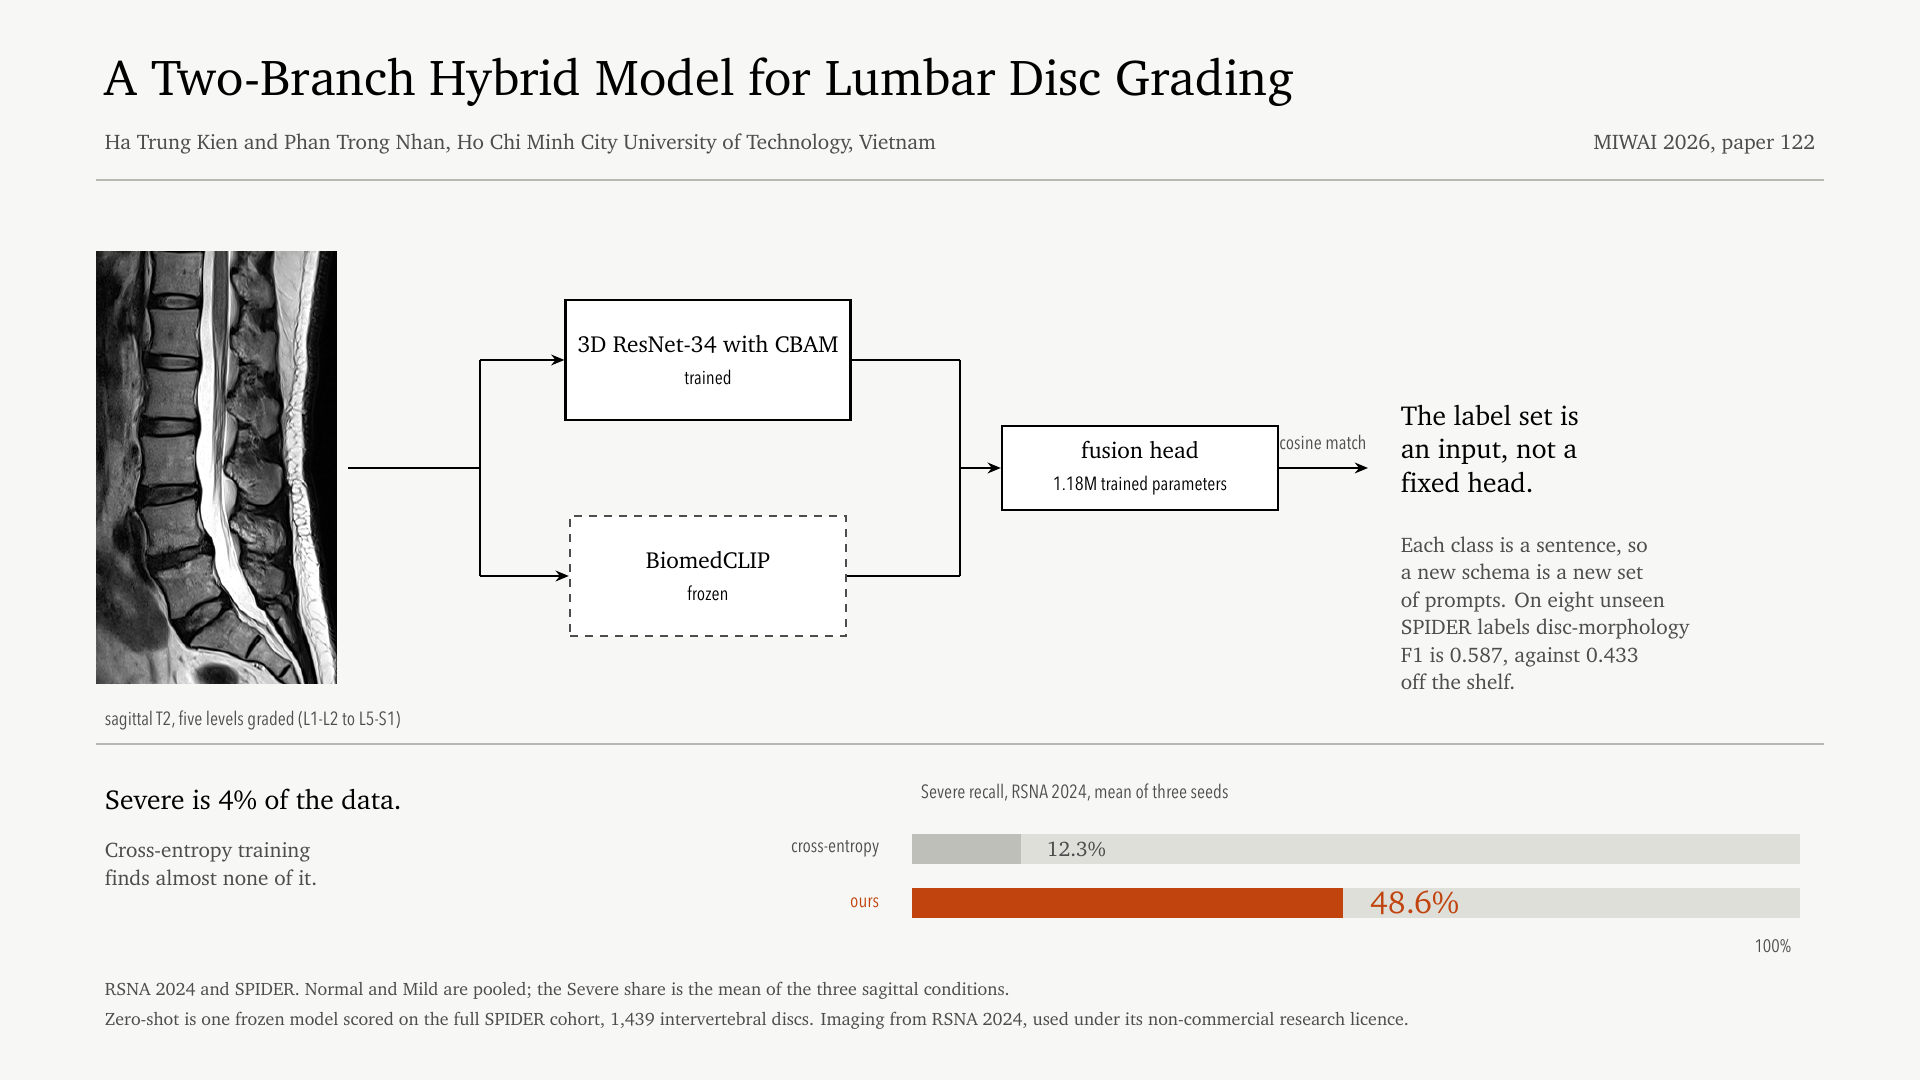
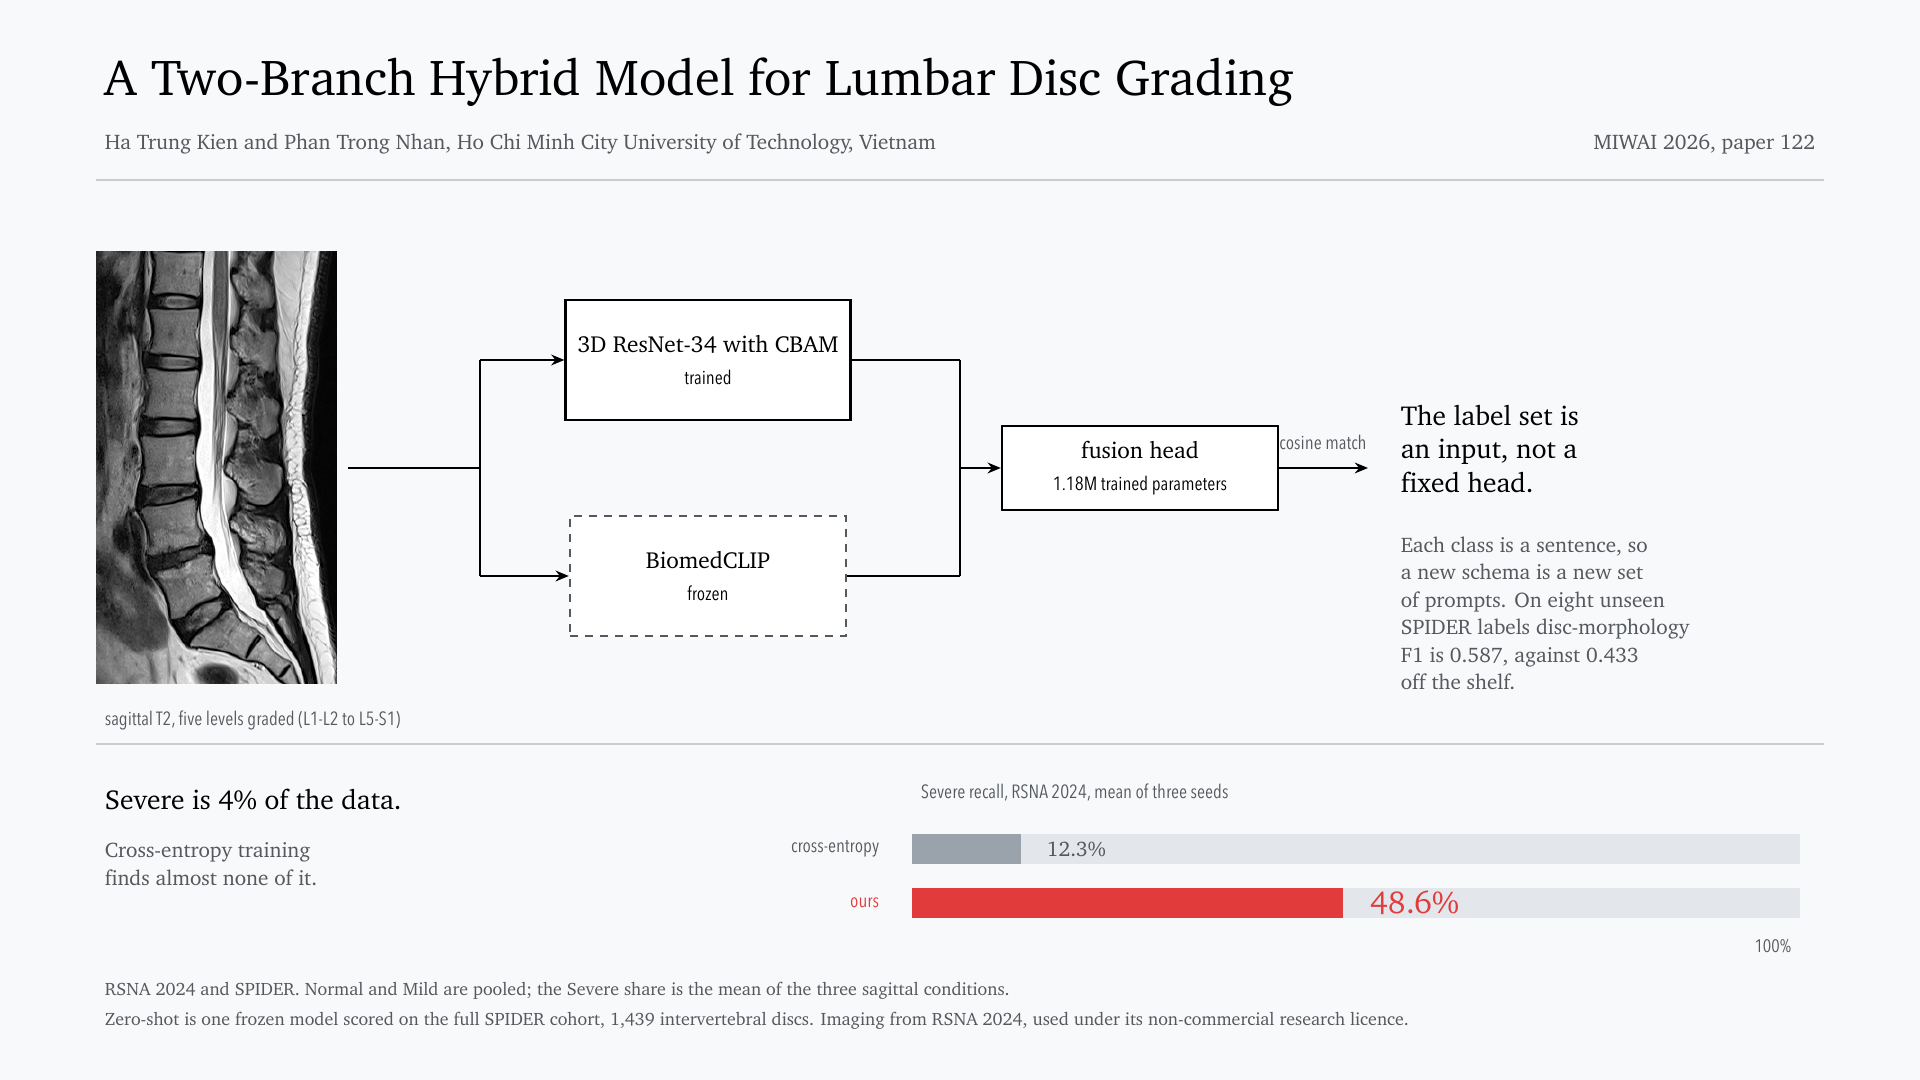
miwai(async): clean the palette, the page had gone dusty
The neutrals were warm, olive-tinted greys (F7F7F5, DFDFDA, BFBFB9, B8B8B2)
and the accent was a muted brick. Tinted neutrals do not read as restraint,
they read as dirt, and with a muted accent on top the whole page came out
washed out. The greys are now clean and faintly cool, which is what reads as
clinical, and the accent is the same Severe red the paper's own class
distribution figure uses, so the two artefacts agree.

The scan was also too dark against a pale page. The window is tightened from
the 1st to 99th percentile to the 2nd to 99.5th and the midtones lifted with a
gamma of 0.82. That is display windowing, the knob a radiologist turns; it
changes no pixel ordering and no measurement.

Changed region(s): [[0.4688, 0.7639, 0.75, 0.8556]]

diff --git a/paper/camera_ready/miwai_async/infographic.tex b/paper/camera_ready/miwai_async/infographic.tex
@@ -36,13 +36,19 @@
 \pagestyle{empty}
 \setlength{\parindent}{0pt}
 
-\definecolor{paper}{HTML}{F7F7F5}
+% The first palette used warm, olive-tinted neutrals (F7F7F5, DFDFDA, B8B8B2)
+% with a brick accent. Tinted neutrals read as dirty rather than as restrained,
+% and the whole page came out dusty. These are clean, faintly cool greys, which
+% is what reads as clinical, and the accent now has real chroma.
+\definecolor{paper}{HTML}{F8F9FA}
 \definecolor{ink}{HTML}{000000}
-\definecolor{ink70}{HTML}{4D4D4D}
-\definecolor{rule}{HTML}{B8B8B2}
-\definecolor{track}{HTML}{DFDFDA}
-\definecolor{track2}{HTML}{BFBFB9}
-\definecolor{signal}{HTML}{C1440E}   % the Severe class, and nothing else
+\definecolor{ink70}{HTML}{55595E}
+\definecolor{rule}{HTML}{C9CDD2}
+\definecolor{track}{HTML}{E3E7EB}
+\definecolor{track2}{HTML}{9AA3AC}
+% Matches the Severe red of the paper's own class-distribution figure, so the
+% two artefacts agree. Used for the Severe class and its recall, nothing else.
+\definecolor{signal}{HTML}{E23B3B}
 
 \begin{document}
 \begin{tikzpicture}[x=1mm,y=1mm,

diff --git a/paper/camera_ready/figures/make_mri_panel.py b/paper/camera_ready/figures/make_mri_panel.py
@@ -20,9 +20,12 @@ files = sorted((RAW / "train_images" / STUDY / SERIES).glob("*.dcm"),
 ds = pydicom.dcmread(str(files[len(files) // 2]))
 img = ds.pixel_array.astype(np.float32)
 
-# Percentile windowing, the same 1st to 99th clip the training pipeline uses.
-lo, hi = np.percentile(img, [1, 99])
-img = np.clip((img - lo) / (hi - lo), 0, 1)
+# Percentile windowing. A flat 1st to 99th clip left this slice muddy on a
+# pale page, so the window is tightened and the midtones lifted with a gamma
+# below 1. This is display windowing, the same knob a radiologist turns; it
+# changes no pixel ordering and no measurement.
+lo, hi = np.percentile(img, [2, 99.5])
+img = np.clip((img - lo) / (hi - lo), 0, 1) ** 0.82
 
 # Crop to a portrait frame around the spine. The lumbar column sits in the
 # middle third horizontally on these sagittal series.
